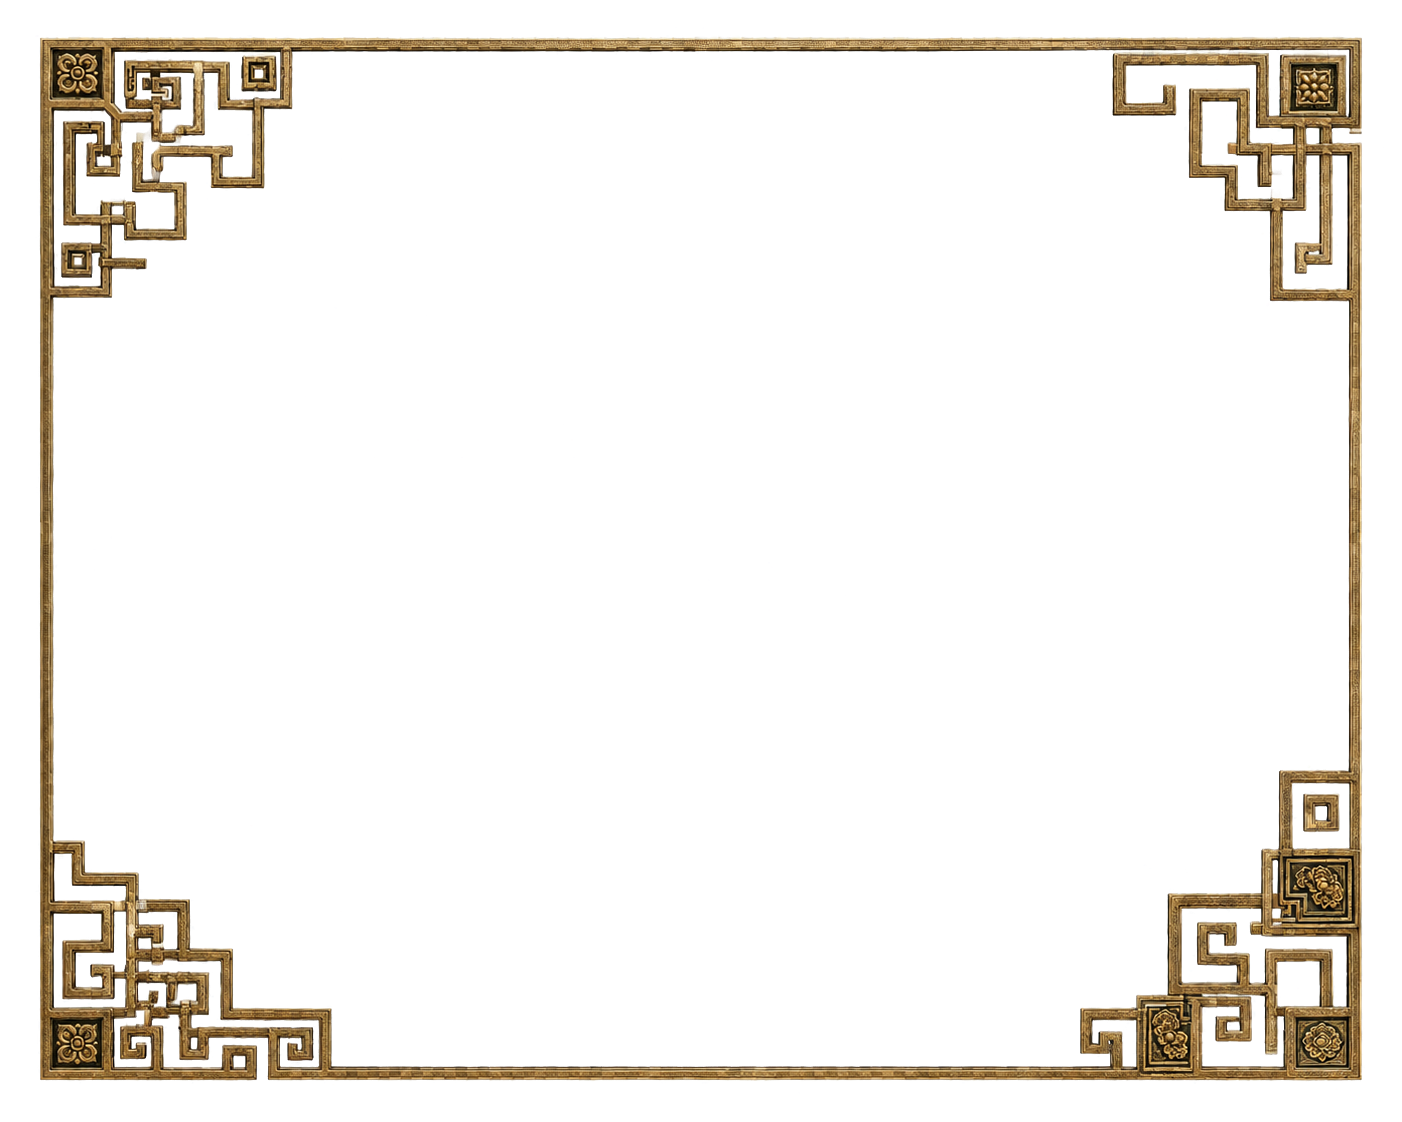
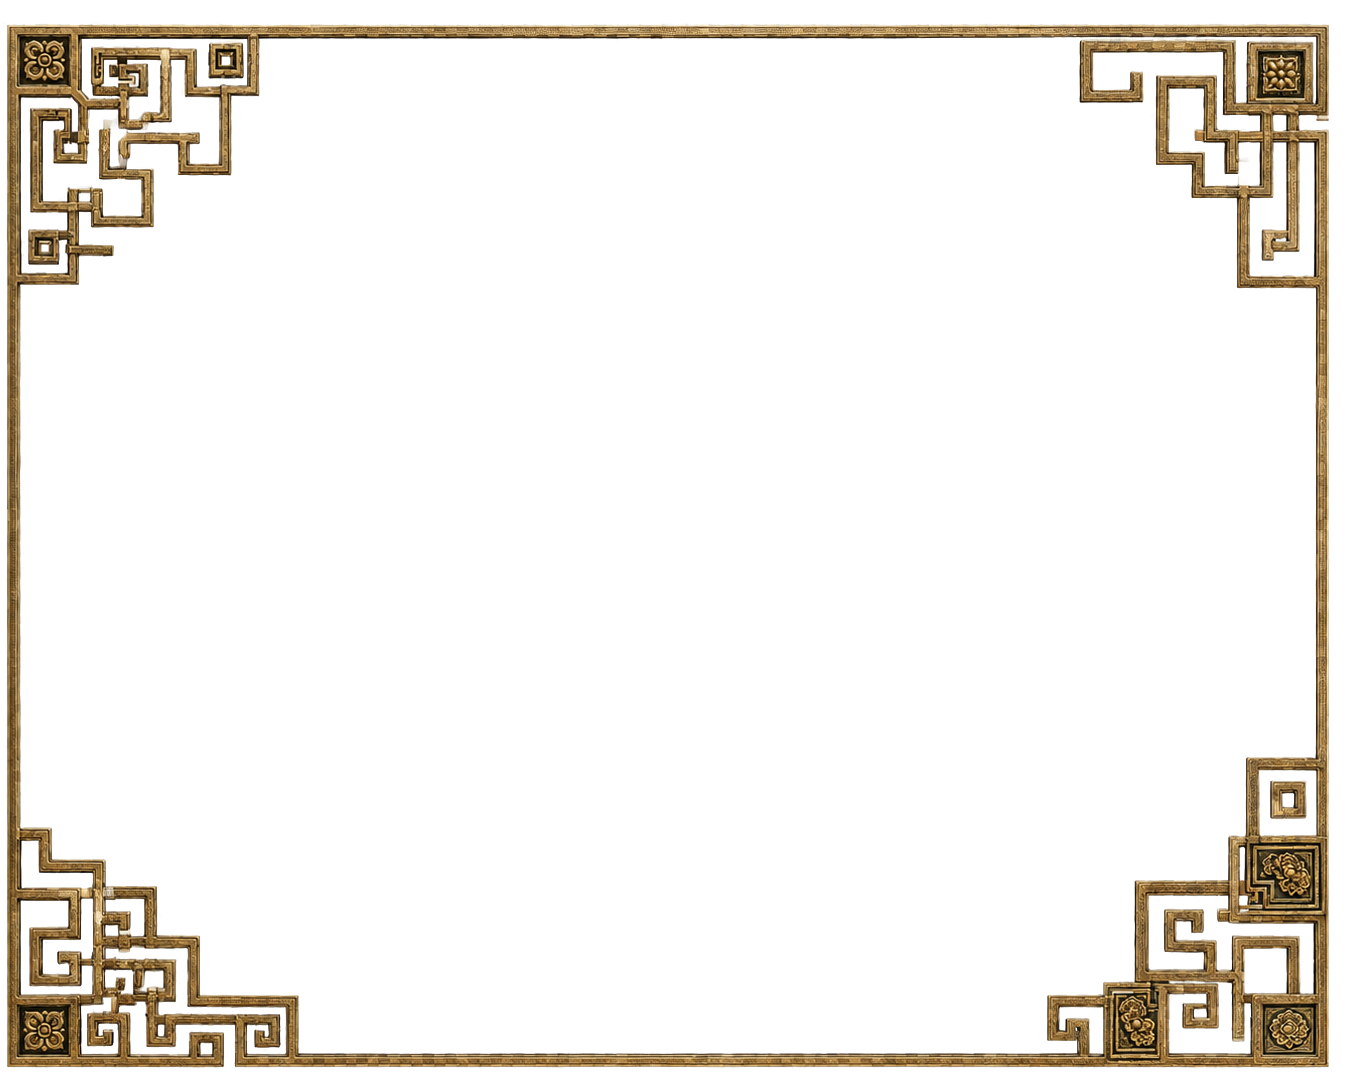
fix: render full ornate panel frame

Changed region(s): [[0.0, 0.0, 0.9817, 1.0]]

diff --git a/css/style.css b/css/style.css
@@ -3734,8 +3734,9 @@ body {
 
 .panel {
   position: relative;
+  isolation: isolate;
   border-radius: 0;
-  border-color: rgba(128, 95, 42, .8);
+  border-color: transparent;
   background-image:
     repeating-radial-gradient(circle at 68% 32%, rgba(202, 168, 92, .015) 0 1px, transparent 1px 8px),
     linear-gradient(180deg, rgba(255, 244, 212, .016), rgba(0, 0, 0, .14)),
@@ -3747,36 +3748,20 @@ body {
   content: "";
   position: absolute;
   inset: -1px;
-  z-index: 5;
+  z-index: -1;
   display: block;
-  box-sizing: border-box;
-  border: 42px solid transparent;
-  border-image-source: url("../images/qin-ornate-panel-frame.webp");
-  border-image-slice: 300 300 300 300;
-  border-image-width: 42px;
-  border-image-outset: 0;
-  border-image-repeat: stretch;
+  background: url("../images/qin-ornate-panel-frame.webp") center / 100% 100% no-repeat;
   pointer-events: none;
-  opacity: .86;
+  opacity: .9;
 }
 
 .panel::after {
   display: none;
 }
 
-@media (min-width: 768px) and (max-width: 1024px) {
-  .panel::before {
-    border-width: 32px;
-    border-image-width: 32px;
-    opacity: .8;
-  }
-}
-
 @media (max-width: 767px),
        (max-width: 932px) and (max-height: 500px) and (orientation: landscape) {
   .panel::before {
-    border-width: 23px;
-    border-image-width: 23px;
-    opacity: .72;
+    opacity: .78;
   }
 }
